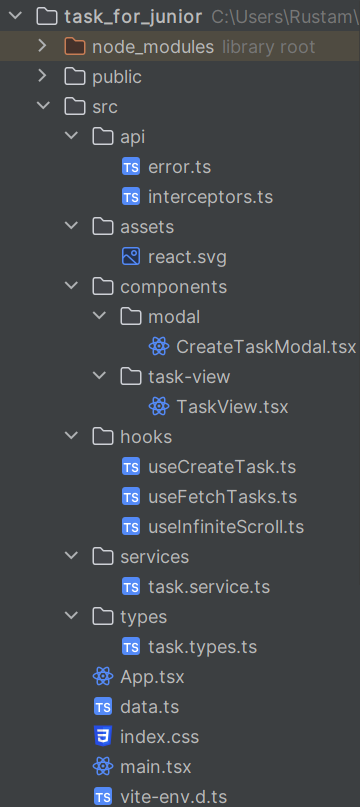
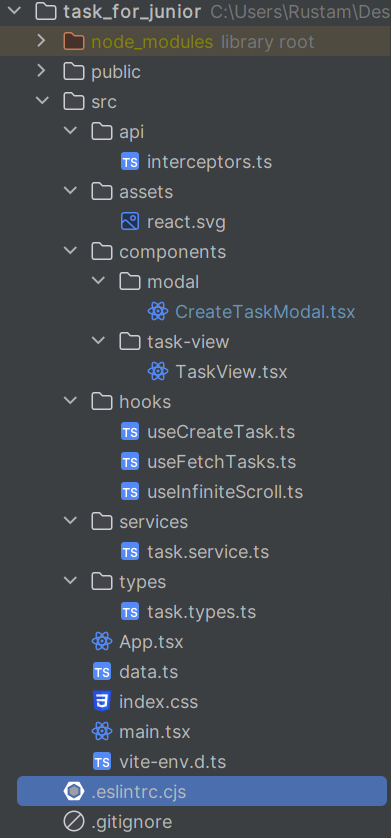
update image

diff --git a/src/components/modal/CreateTaskModal.tsx b/src/components/modal/CreateTaskModal.tsx
@@ -1,3 +1,5 @@
+// @ts-nocheck
+
 import {Autocomplete, AutocompleteItem, Button, DatePicker, Input, Modal, ModalBody, ModalContent, ModalFooter, ModalHeader, Textarea} from "@nextui-org/react"
 import {getLocalTimeZone, today} from "@internationalized/date"
 import {priorities, statuses} from "../../data.ts"
